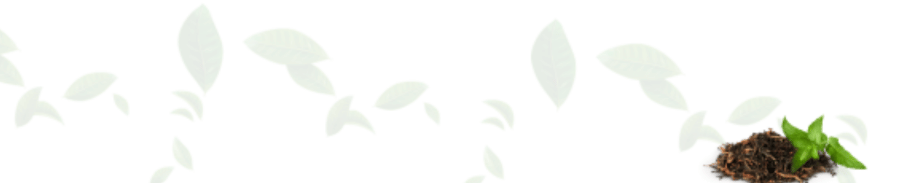
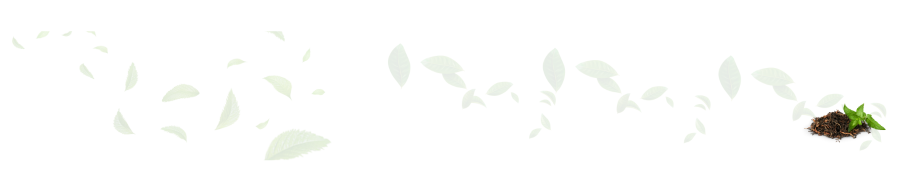
update img untuk home

diff --git a/public/assets/css/responsive.css b/public/assets/css/responsive.css
@@ -53,7 +53,7 @@
 		max-width: 213px;
 		min-width: 213px;
 	}
-	.model-search-content {position: relative;bottom: 0;top: 111px;background: url('../images/bg-904.png')no-repeat !important;}
+	.model-search-content {position: relative;bottom: 0;top: 111px;background: url('../images/bg-904_1.png')no-repeat !important;}
 }/*max-width:1024px*/
 
 @media screen and (max-width:1008px){
